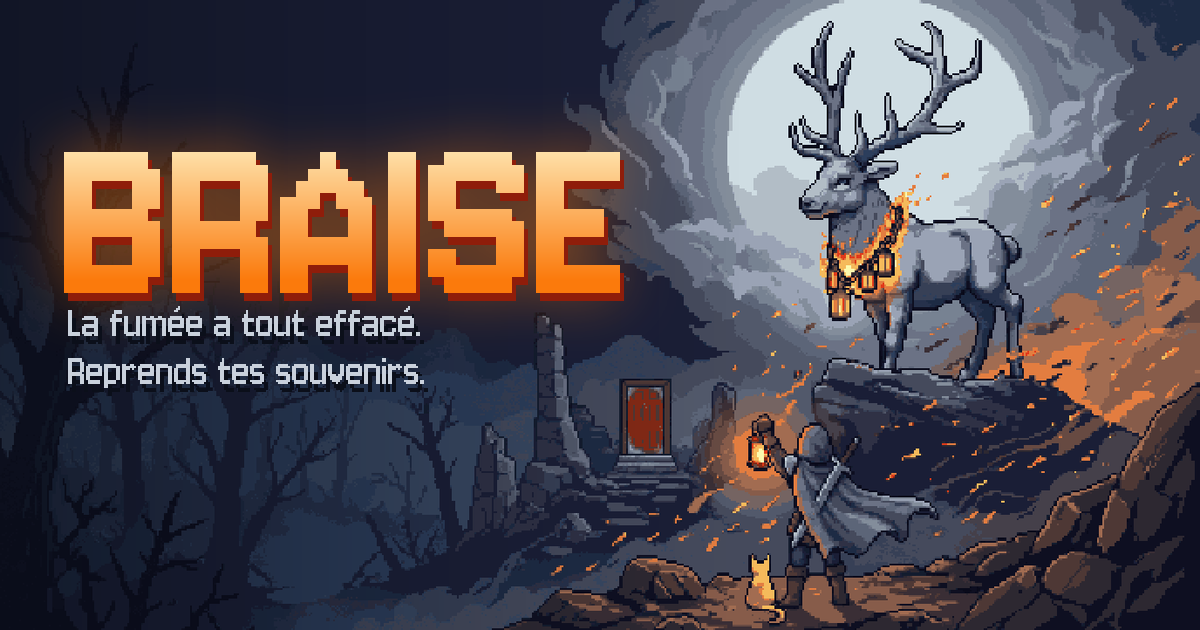
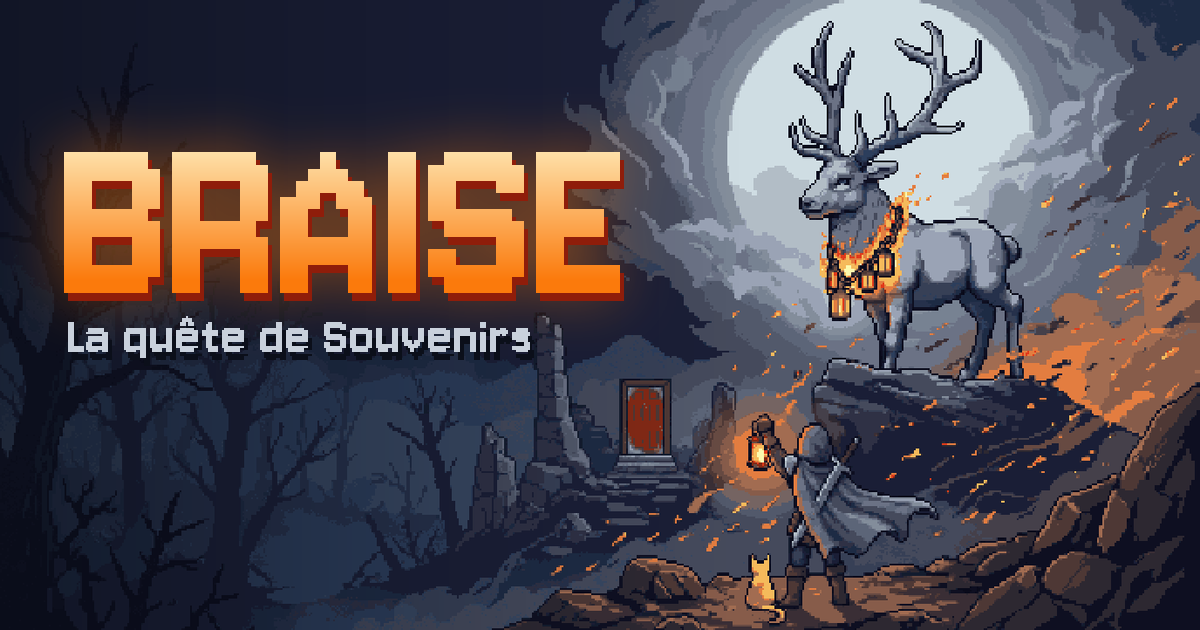
feat(web): l'accroche devient « La quête de Souvenirs »

Changed region(s): [[0.0308, 0.4825, 0.4625, 0.6333]]

diff --git a/packages/braise/index.html b/packages/braise/index.html
@@ -13,7 +13,7 @@
     <meta property="og:type" content="website" />
     <meta property="og:site_name" content="Braise" />
     <meta property="og:locale" content="fr_FR" />
-    <meta property="og:title" content="Braise : la fumée a tout effacé, reprends tes souvenirs" />
+    <meta property="og:title" content="Braise : la quête de Souvenirs" />
     <meta property="og:description" content="Un survivors-like très RPG, en pixel art. Lanterne en main, reprends tes souvenirs aux Éteints." />
     <meta property="og:url" content="https://braise.dilaouid.fr/" />
     <meta property="og:image" content="https://braise.dilaouid.fr/og-image.png" />
@@ -22,7 +22,7 @@
     <meta property="og:image:height" content="630" />
     <meta property="og:image:alt" content="Un homme à la lanterne et son chat face à un cerf géant couronné de lanternes, sous la lune." />
     <meta name="twitter:card" content="summary_large_image" />
-    <meta name="twitter:title" content="Braise : la fumée a tout effacé, reprends tes souvenirs" />
+    <meta name="twitter:title" content="Braise : la quête de Souvenirs" />
     <meta name="twitter:description" content="Un survivors-like très RPG, en pixel art. Lanterne en main, reprends tes souvenirs aux Éteints." />
     <meta name="twitter:image" content="https://braise.dilaouid.fr/og-image.png" />
     <style>
